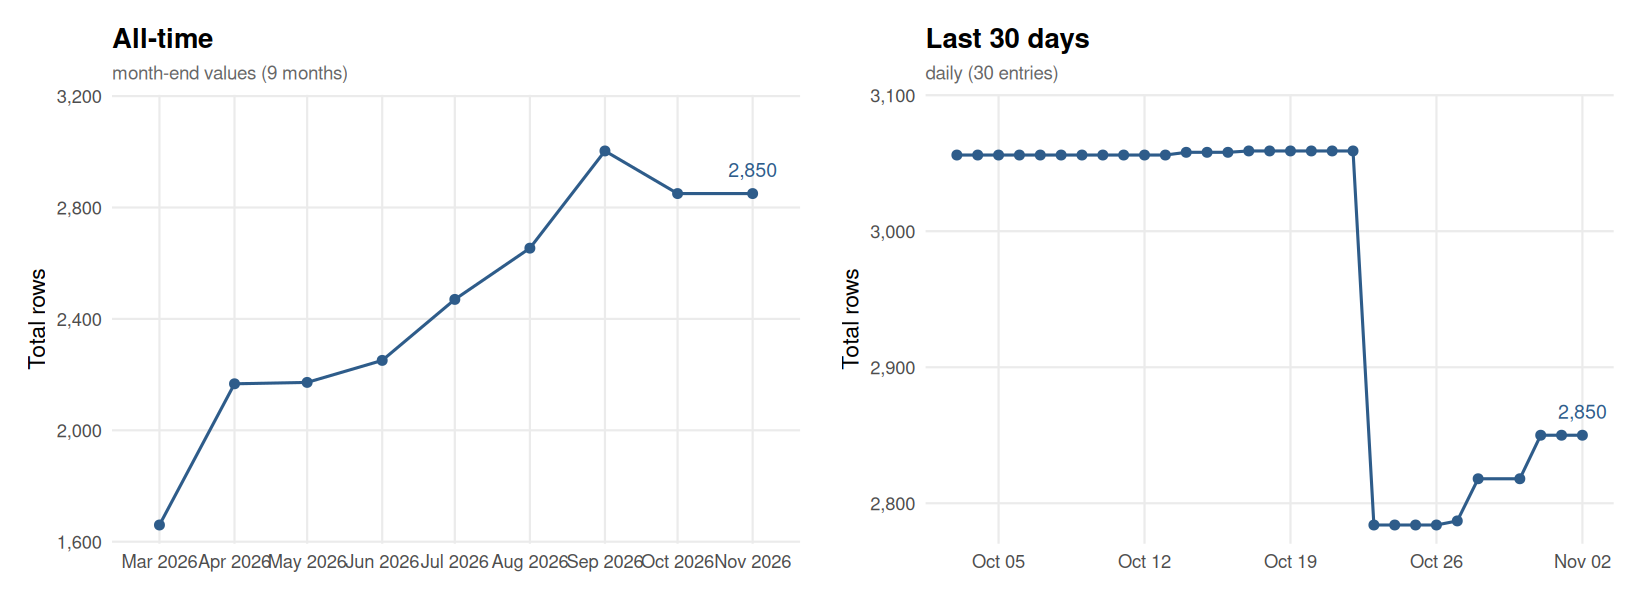
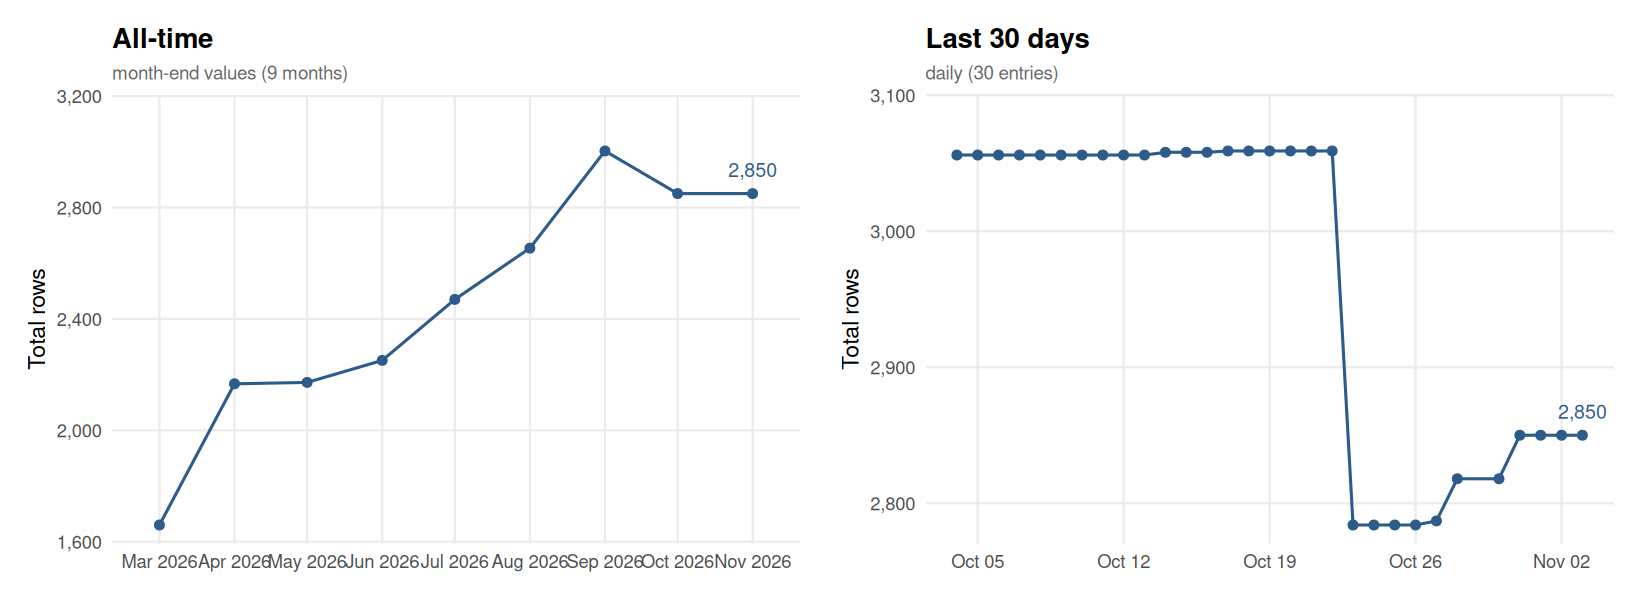
Sync flora.csv from flora-validation [automated]

diff --git a/README.md b/README.md
@@ -445,14 +445,15 @@ For API issues:
 This chart is automatically updated after each daily sync from flora-validation, showing the size of `output/flora.csv` over time.
 
 <!-- FLORA_UPDATE_LOG_START -->
-> **Latest (2026-11-02):** Total = 2,850 | Replications = 2,628 | Reproductions = 222
+> **Latest (2026-11-03):** Total = 2,850 | Replications = 2,628 | Reproductions = 222
 
 ![FLoRA dataset size over time](output/flora_history.png)
 
-<details><summary>Full history (220 entries)</summary>
+<details><summary>Full history (221 entries)</summary>
 
 | Date | Total | Replications | Reproductions |
 |------|------:|-------------:|--------------:|
+| 2026-11-03 | 2850 | 2628 | 222 |
 | 2026-11-02 | 2850 | 2628 | 222 |
 | 2026-11-01 | 2850 | 2628 | 222 |
 | 2026-10-31 | 2850 | 2628 | 222 |
